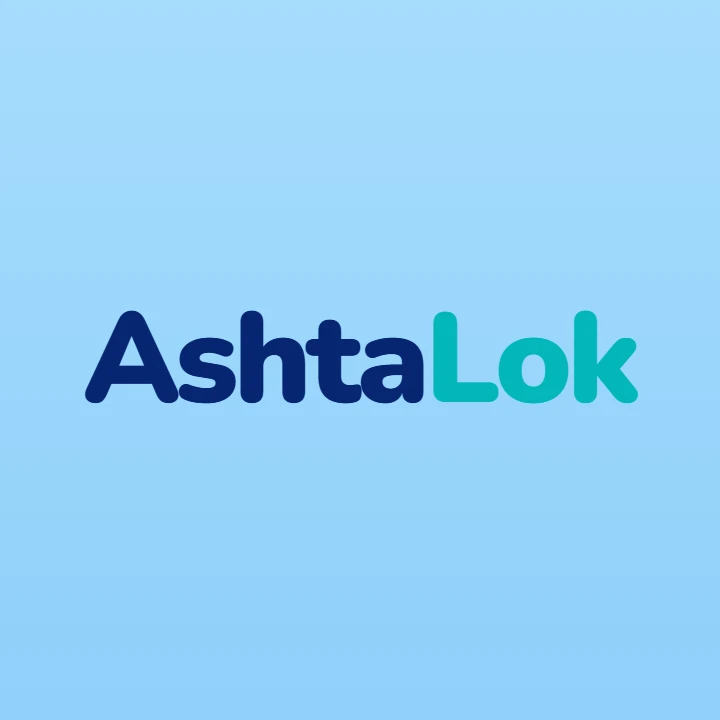
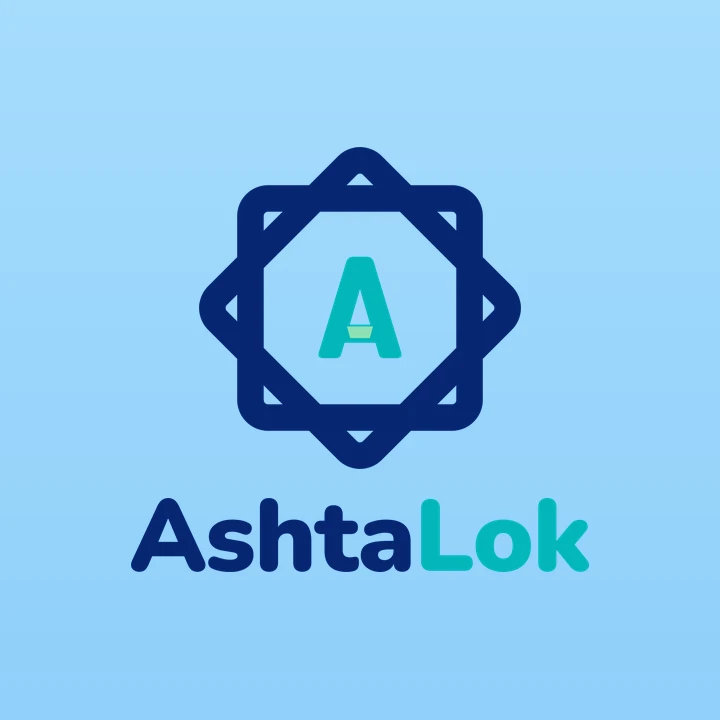
Deploy ashtadeep-site 5b446f0

Changed region(s): [[0.1222, 0.1833, 0.8861, 0.6722], [0.1833, 0.6722, 0.825, 0.7944]]

diff --git a/index.html b/index.html
@@ -95,7 +95,7 @@
       <div class="head reveal"><h2 id="apps-title">Software that gives <em>light</em></h2>
         <p>A growing family of privacy-first apps. Each one is released only when it is ready, so for now there is nothing to download.</p></div>
       <div class="cards"><article class="app fit-cover reveal" id="ashtalok">
-        <div class="art" style="--tone:linear-gradient(180deg, #A6DCFD 0%, #8FD0FA 100%)"><img src="img/ashtalok.webp" alt="The name AshtaLok, &quot;Ashta&quot; in navy and &quot;Lok&quot; in teal, on a sky-blue panel" width="720" height="720" loading="lazy" decoding="async"></div>
+        <div class="art" style="--tone:linear-gradient(180deg, #A6DCFD 0%, #8FD0FA 100%)"><img src="img/ashtalok.webp" alt="The AshtaLok logo: a navy eight-point star around a teal A, over the name, &quot;Ashta&quot; in navy and &quot;Lok&quot; in teal, on a sky-blue panel" width="720" height="720" loading="lazy" decoding="async"></div>
         <div class="card"><h3>AshtaLok</h3><p>Ads and trackers stop before they load.</p>
           <span class="status testing"><img class="emblem" src="/img/brand/emblem.webp" alt="" width="360" height="243">In final testing</span>
           <span class="meta">Android · Browser extension · Windows</span><span class="meta">Not released yet. There is nothing to download.</span><a class="underline arrow" href="https://ashtalok.ashtadeep.com/">Visit AshtaLok</a></div>
